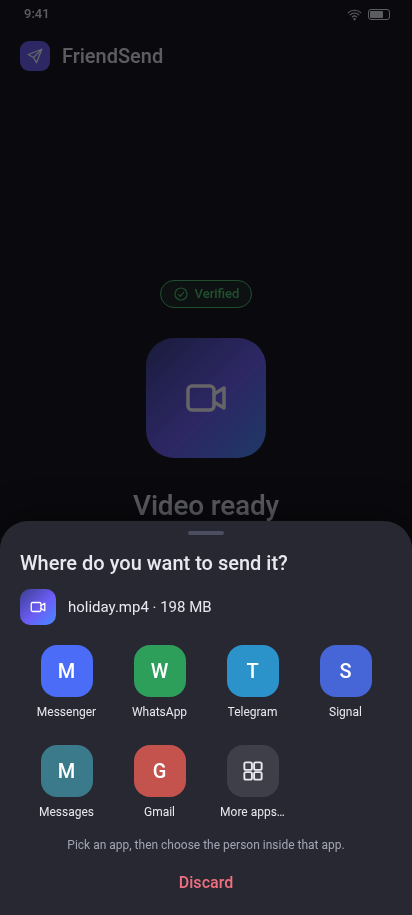
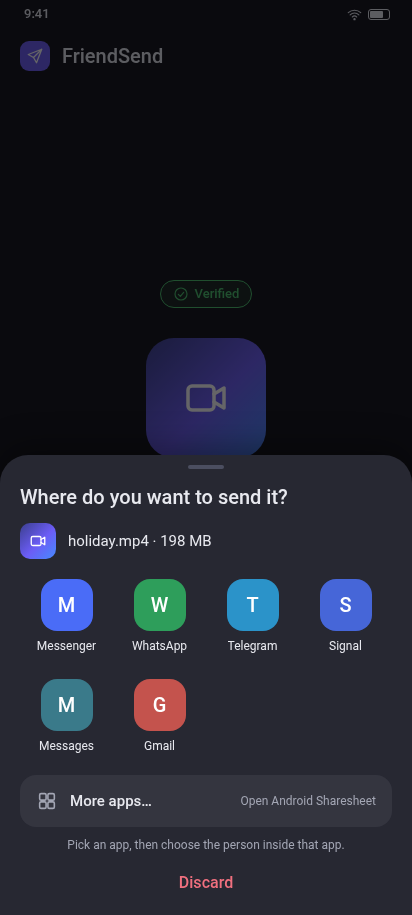
design: polish FriendSend pairing wording and separate More apps row
Two small review polish items, FriendSend only. Design only: no
application code changed and the desktop mockups are untouched.

- User-facing copy says "pairing code": the field now reads "Paste code
  from Rýchlik" instead of "Paste pairing payload". Payload stays an
  internal protocol term and never appears in the UI.
- "More apps..." is no longer drawn as a seventh app tile. It is its own
  row under the grid, labelled "Open Android Sharesheet", because it opens
  a different level (the system Sharesheet, including Direct Share people
  and conversations that FriendSend cannot reproduce). The picker must
  never replace the system Sharesheet path; recorded as a review
  criterion in UX_FLOWS.md and FINAL_GUI_UX_DESIGN.md.
- All FriendSend mockups re-rendered (including 360/412 variants), family
  overview and screen inventory regenerated.

A14-PHYSICAL-ANDROID-SHARE-SMOKE and A15-PHYSICAL-MDNS-DISCOVERY remain OPEN.

Changed region(s): [[0.0, 0.4896, 1.0, 0.918], [0.7573, 0.612, 0.9029, 0.7956], [0.5825, 0.8262, 0.9029, 0.918]]

diff --git a/design/prototype/friendsend.py b/design/prototype/friendsend.py
@@ -60,7 +60,10 @@ CSS = """
 .tile{display:flex;flex-direction:column;align-items:center;gap:7px;height:92px;padding-top:6px;text-align:center}
 .tile .ico{width:52px;height:52px;border-radius:16px;display:grid;place-items:center;font-size:20px;font-weight:700;color:#fff}
 .tile span{font-size:12px;line-height:16px;color:var(--text);max-width:80px;white-space:nowrap;overflow:hidden;text-overflow:ellipsis}
-.tile.more .ico{background:color-mix(in srgb,var(--text) 12%,transparent);color:var(--text)}
+.morerow{display:flex;align-items:center;gap:12px;min-height:52px;margin-top:10px;padding:0 16px;border-radius:16px;background:color-mix(in srgb,var(--text) 7%,transparent)}
+.morerow b{font-size:15px;font-weight:600}
+.morerow .cap{margin-left:auto}
+.morerow .ic{color:var(--text2)}
 .dlgm{position:absolute;left:24px;right:24px;top:50%;transform:translateY(-50%);background:var(--elev);border-radius:28px;padding:24px;box-shadow:0 12px 40px rgba(0,0,0,.5)}
 .dlgm .row{display:flex;justify-content:flex-end;gap:8px;margin-top:20px}
 .sys{background:#2b2b31;color:#e6e6ea;border-radius:28px 28px 0 0}
@@ -100,7 +103,7 @@ def hero(ic, cls, title, text, size=44, small=False):
 def unpaired(theme, w, h, filled=False, error=False):
     code = '{"protocol_version":1,"security_profile":"pinned-tls-signature-v1","pairing_session_id":"9c1e…","desktop_endpoint":{"host":"192.168.1.20","port":41873},"secret":"••••••••", …}'
     fld = (f'<div class="field filled">{code}</div>' if filled else
-           f'<div class="field {"err" if error else ""}">Paste pairing payload<div class="paste"><div class="btn secondary sm">{icon("copy", 18)}Paste</div></div></div>')
+           f'<div class="field {"err" if error else ""}">Paste code from Rýchlik<div class="paste"><div class="btn secondary sm">{icon("copy", 18)}Paste</div></div></div>')
     if error:
         fld = '<div class="field filled err">hello world</div>'
     msg = ""
@@ -189,15 +192,18 @@ def received(theme, w, h):
 def tiles(w, apps):
     cols = max(3, (w - 40) // 84)
     items = "".join(f'<div class="tile"><div class="ico" style="background:{c}">{ch}</div><span>{n}</span></div>' for n, ch, c in apps)
-    items += f'<div class="tile more"><div class="ico">{icon("grid", 26)}</div><span>More apps…</span></div>'
     return f'<div class="grid" style="grid-template-columns:repeat({cols},1fr)">{items}</div>'
+
+
+def more_row():
+    return (f'<div class="morerow">{icon("grid", 22)}<b>More apps…</b><span class="cap">Open Android Sharesheet</span></div>')
 
 
 def picker(theme, w, h, apps=None):
     apps = apps if apps is not None else APPS[:6]
     sheet = (f'<div class="sheet"><div class="grab"></div><div class="h2">Where do you want to send it?</div>'
              f'<div class="frow" style="margin-top:12px"><div class="fic thumb" style="width:36px;height:36px;border-radius:10px">{icon("video", 18)}</div><span class="p" style="color:var(--text)">holiday.mp4 · 198 MB</span></div>'
-             f'{tiles(w, apps)}<div class="cap" style="text-align:center">Pick an app, then choose the person inside that app.</div>'
+             f'{tiles(w, apps)}{more_row()}<div class="cap" style="text-align:center;margin-top:10px">Pick an app, then choose the person inside that app.</div>'
              f'<div style="margin-top:6px">{btn("Discard", "dtert")}</div></div>')
     return page(theme, w, h, received_body(), overlay=f'<div class="scrim"></div>{sheet}')
 
@@ -304,6 +310,6 @@ def components(theme, w=1000, h=820):
             f'<div style="height:14px"></div><div class="card" style="text-align:center"><span class="c-warning">{icon("warning", 32)}</span><div class="h2" style="margin-top:6px">Error state</div><div class="p">Title, one sentence, one action.</div></div>')
     body = (f'<div class="h2" style="margin-bottom:18px">FriendSend - component sheet ({theme})</div><div style="display:flex;gap:28px;flex-wrap:wrap">'
             f'{sect("Buttons (52 dp, pill)", btns)}{sect("Status chips (icon + text)", chips)}{sect("Progress + cards", prog + "<div style=height:18px></div>" + card)}'
-            f'{sect("Share target tiles (84 x 92 dp)", "<div style=width:340px>" + tile + "</div>")}</div>')
+            f'{sect("Share target tiles (84 x 92 dp) + system row", "<div style=width:340px>" + tile + more_row() + "</div>")}</div>')
     return (f'<!doctype html><html data-theme="{theme}"><head><meta charset="utf-8"><!-- NON-PRODUCTION DESIGN PROTOTYPE --><style>{base_css()}{CSS}</style></head>'
             f'<body class="mob"><div class="ph" style="padding:28px 32px;width:{w}px;height:{h}px;overflow:auto">{body}</div></body></html>')

diff --git a/design/prototype/gen_inventory.py b/design/prototype/gen_inventory.py
@@ -37,7 +37,7 @@ DESKTOP = [
 ]
 FRIEND = [
     ("F01", "First launch / unpaired", "No trusted desktop stored", "Pair", "Paste", "Inline error under the field", "n/a", "360/390/412", ["friendsend/01_pairing.png", "friendsend/01b_pairing_light.png"]),
-    ("F02", "Pairing payload entered / invalid", "Text in the field", "Pair", "Paste", "'This does not look like a pairing code.' with icon + text", "Empty: Pair disabled", "360/390/412", ["friendsend/01c_pairing_filled.png", "friendsend/01d_pairing_error.png"]),
+    ("F02", "Pairing code entered / invalid", "Text in the field", "Pair", "Paste", "'This does not look like a pairing code.' with icon + text", "Empty: Pair disabled", "360/390/412", ["friendsend/01c_pairing_filled.png", "friendsend/01d_pairing_error.png"]),
     ("F03", "Pairing in progress", "Pair tapped", "none (short, automatic)", "n/a", "Failure returns to F01 with a message", "n/a", "360/390/412", ["friendsend/01e_pairing_progress.png"]),
     ("F04", "Pairing success", "Pairing confirmed", "Done", "n/a", "n/a", "n/a", "360/390/412", ["friendsend/01f_pairing_success.png"]),
     ("F05", "Ready to receive", "Trusted desktop exists (every cold start)", "none (waiting)", "Trusted computer card, header desktop icon", "F16", "n/a", "360/390/412", ["friendsend/02_ready.png", "friendsend/02b_ready_light.png"]),
@@ -45,7 +45,7 @@ FRIEND = [
     ("F07", "Verifying", "All bytes received", "none", "n/a", "F15", "n/a", "360/390/412", ["friendsend/04_verifying.png"]),
     ("F08", "Preparing received file / ready transition", "Verification passed", "none", "n/a", "Failure to create the share URI shows the F14 pattern", "n/a", "360/390/412", ["friendsend/04b_preparing_share.png"]),
     ("F09", "Received", "Verified file exists", "Choose app", "Discard", "n/a", "n/a", "360/390/412", ["friendsend/05_received.png"]),
-    ("F10", "Choose destination app (dynamic picker)", "Opens automatically over F09; reopened by Choose app", "Tap an app tile", "More apps..., Discard", "F19", "F19", "3 columns at 360, 4 at 390/412; scrolls beyond 3 rows", ["friendsend/06_share_target_picker.png", "friendsend/07_share_target_picker_dark.png", "friendsend/07b_picker_few_apps.png", "friendsend/07c_picker_many_apps.png", "friendsend/sizes/picker_360x800.png", "friendsend/sizes/picker_412x915.png", "friendsend/sizes/picker_light_360x800.png", "friendsend/sizes/picker_light_412x915.png"]),
+    ("F10", "Choose destination app (dynamic picker)", "Opens automatically over F09; reopened by Choose app", "Tap an app tile", "More apps... (separate system row below the grid, never a tile), Discard", "F19", "F19", "3 columns at 360, 4 at 390/412; scrolls beyond 3 rows", ["friendsend/06_share_target_picker.png", "friendsend/07_share_target_picker_dark.png", "friendsend/07b_picker_few_apps.png", "friendsend/07c_picker_many_apps.png", "friendsend/sizes/picker_360x800.png", "friendsend/sizes/picker_412x915.png", "friendsend/sizes/picker_light_360x800.png", "friendsend/sizes/picker_light_412x915.png"]),
     ("F11", "System More apps fallback", "More apps...", "Choose a system share target", "System UI dismiss", "n/a", "n/a", "System-owned; schematic only", ["friendsend/07e_system_more_apps.png"]),
     ("F12", "Handoff accepted", "App returns from a targeted ACTION_SEND", "Done", "Send with another app", "n/a", "n/a", "360/390/412", ["friendsend/07f_handoff_accepted.png"]),
     ("F13", "Cancelled", "User or desktop cancelled", "Done", "n/a", "n/a", "n/a", "360/390/412", ["friendsend/08b_cancelled.png"]),

diff --git a/docs/FINAL_GUI_UX_DESIGN.md b/docs/FINAL_GUI_UX_DESIGN.md
@@ -83,7 +83,7 @@ Source of truth: `DownloadManagerService` (`hold`, `release_hold`, `pause_transf
 
 A state machine with almost no navigation: `PAIRING -> READY -> RECEIVING -> VERIFYING -> RECEIVED -> CHOOSE APP -> HANDOFF`.
 No tabs, drawer, inbox, history or settings tree. The only secondary screen is "Trusted computer" (header icon), which
-holds Forget. Setup (F01-F04) is visually distinct from everyday use (F05+): different hierarchy, no payload controls once paired.
+holds Forget. Setup (F01-F04) is visually distinct from everyday use (F05+): different hierarchy, no pairing-code controls once paired.
 
 ## 6. Design tokens (source: `design/final_design_tokens.json`)
 
@@ -161,6 +161,8 @@ Both themes share layout; only surface, text and border tokens change. Accent st
 colors for text (fill colors remain for bars/glyphs). Mobile cards use a soft shadow in light, a 1 px border in dark. Follow the system theme by default
 with a manual override on desktop (Settings > Appearance). Do not copy desktop QSS colors into Flutter; consume `final_design_tokens.json`.
 
+**Wording rule.** User-facing copy says "pairing code" (FriendSend field: "Paste code from Rýchlik"); "payload" is an internal protocol term.
+
 ## 12. Accessibility
 
 - Contrast: 50 audited pairs pass (text >= 4.5:1, graphics >= 3:1); `text.disabled` is exempt and never carries information. See `CONTRAST_AUDIT.md`.
@@ -211,7 +213,7 @@ white text on plain error red, mis-anchored annotation over the FriendSend heade
 1. Real fonts: mockups use Noto Sans/Roboto stand-ins; re-check widths with Inter.
 2. Share-target ordering (recent vs alphabetical vs pinned) and whether to cap the grid at 8 before "More apps...".
 3. Real app icons in the picker come from the system; the padding/mask style for non-adaptive icons is untested.
-4. Desktop name in the phone's "Trusted computer" card: the pairing payload currently carries no display name (record shows null), so the design says "Rýchlik / Your computer".
+4. Desktop name in the phone's "Trusted computer" card: the pairing data currently carries no display name (record shows null), so the design says "Rýchlik / Your computer".
 5. Whether bulk "Send..." should exist in the first implementation (single-file send may ship first).
 6. QR pairing is not designed: the current pairing is paste-based; a QR option would need its own design and protocol decision.
 7. Slovak strings and the longer-label behavior of toolbar/table columns.
@@ -223,7 +225,7 @@ white text on plain error red, mis-anchored annotation over the FriendSend heade
 2. **Endpoint refresh.** A17-E1 showed the phone's port changes on every app start. "Trusted - Online" and sending need discovery to refresh the stored endpoint (`with_endpoint`) before connecting.
 3. **Identity changed** maps to TLS pin / device-identity mismatch results; there is no persisted "identity changed" flag today, so the state is derived from the last failed check. "Resolve..." opens the forget flow only.
 4. **FriendSend states.** Current `AppState` has unpaired/paired/receiving/received/error. New: verifying, preparing-to-share, choosing, handed-off, cancelled, no-network. Discard and Share buttons are currently placeholders (`onPressed: () {}`) and must be wired.
-5. **Share-target picker** needs `ShareTargetResolver`, package-visibility `<queries>` for `ACTION_SEND` by MIME type, targeted-package intents, and the permanent More apps... fallback. Today `autoShare` opens the system chooser immediately; the design replaces that with the F10 picker. Independent of Device Mode transport/security.
+5. **Share-target picker** needs `ShareTargetResolver`, package-visibility `<queries>` for `ACTION_SEND` by MIME type, targeted-package intents, and the permanent More apps... fallback. Today `autoShare` opens the system chooser immediately; the design replaces that with the F10 picker. `More apps...` is a separate row under the grid ("Open Android Sharesheet"), not a seventh tile, and the picker must never replace the system Sharesheet path (Direct Share people/conversations exist only there). Independent of Device Mode transport/security.
 6. **Preparing progress:** `DeviceHandoffSnapshot` exposes only a fraction. "Converted 1:12 of 2:48" needs processed time/duration (available inside the A16 preparation progress but not on the snapshot) or must be dropped.
 7. **Share by Link extras** (Open in browser, QR, Share via phone) are design placeholders.
 8. **Assets to replace:** the 24 px raster icons in `assets/*.zip` and the v3 QSS pixel/`pt` mix; use tokens and the single stroke icon set.

diff --git a/design/SCREEN_INVENTORY.md b/design/SCREEN_INVENTORY.md
@@ -43,7 +43,7 @@ Additional mockups not tied to one ID: `mockups/00_family_overview.png` (both ap
 | ID | Purpose | Entry condition | Primary action | Secondary actions | Error state | Empty state | Responsive variants | Mockup file(s) |
 |---|---|---|---|---|---|---|---|---|
 | F01 | First launch / unpaired | No trusted desktop stored | Pair | Paste | Inline error under the field | n/a | 360/390/412 | `friendsend/01_pairing.png`<br>`friendsend/01b_pairing_light.png` |
-| F02 | Pairing payload entered / invalid | Text in the field | Pair | Paste | 'This does not look like a pairing code.' with icon + text | Empty: Pair disabled | 360/390/412 | `friendsend/01c_pairing_filled.png`<br>`friendsend/01d_pairing_error.png` |
+| F02 | Pairing code entered / invalid | Text in the field | Pair | Paste | 'This does not look like a pairing code.' with icon + text | Empty: Pair disabled | 360/390/412 | `friendsend/01c_pairing_filled.png`<br>`friendsend/01d_pairing_error.png` |
 | F03 | Pairing in progress | Pair tapped | none (short, automatic) | n/a | Failure returns to F01 with a message | n/a | 360/390/412 | `friendsend/01e_pairing_progress.png` |
 | F04 | Pairing success | Pairing confirmed | Done | n/a | n/a | n/a | 360/390/412 | `friendsend/01f_pairing_success.png` |
 | F05 | Ready to receive | Trusted desktop exists (every cold start) | none (waiting) | Trusted computer card, header desktop icon | F16 | n/a | 360/390/412 | `friendsend/02_ready.png`<br>`friendsend/02b_ready_light.png` |
@@ -51,7 +51,7 @@ Additional mockups not tied to one ID: `mockups/00_family_overview.png` (both ap
 | F07 | Verifying | All bytes received | none | n/a | F15 | n/a | 360/390/412 | `friendsend/04_verifying.png` |
 | F08 | Preparing received file / ready transition | Verification passed | none | n/a | Failure to create the share URI shows the F14 pattern | n/a | 360/390/412 | `friendsend/04b_preparing_share.png` |
 | F09 | Received | Verified file exists | Choose app | Discard | n/a | n/a | 360/390/412 | `friendsend/05_received.png` |
-| F10 | Choose destination app (dynamic picker) | Opens automatically over F09; reopened by Choose app | Tap an app tile | More apps..., Discard | F19 | F19 | 3 columns at 360, 4 at 390/412; scrolls beyond 3 rows | `friendsend/06_share_target_picker.png`<br>`friendsend/07_share_target_picker_dark.png`<br>`friendsend/07b_picker_few_apps.png`<br>`friendsend/07c_picker_many_apps.png`<br>`friendsend/sizes/picker_360x800.png`<br>`friendsend/sizes/picker_412x915.png`<br>`friendsend/sizes/picker_light_360x800.png`<br>`friendsend/sizes/picker_light_412x915.png` |
+| F10 | Choose destination app (dynamic picker) | Opens automatically over F09; reopened by Choose app | Tap an app tile | More apps... (separate system row below the grid, never a tile), Discard | F19 | F19 | 3 columns at 360, 4 at 390/412; scrolls beyond 3 rows | `friendsend/06_share_target_picker.png`<br>`friendsend/07_share_target_picker_dark.png`<br>`friendsend/07b_picker_few_apps.png`<br>`friendsend/07c_picker_many_apps.png`<br>`friendsend/sizes/picker_360x800.png`<br>`friendsend/sizes/picker_412x915.png`<br>`friendsend/sizes/picker_light_360x800.png`<br>`friendsend/sizes/picker_light_412x915.png` |
 | F11 | System More apps fallback | More apps... | Choose a system share target | System UI dismiss | n/a | n/a | System-owned; schematic only | `friendsend/07e_system_more_apps.png` |
 | F12 | Handoff accepted | App returns from a targeted ACTION_SEND | Done | Send with another app | n/a | n/a | 360/390/412 | `friendsend/07f_handoff_accepted.png` |
 | F13 | Cancelled | User or desktop cancelled | Done | n/a | n/a | n/a | 360/390/412 | `friendsend/08b_cancelled.png` |

diff --git a/design/UX_FLOWS.md b/design/UX_FLOWS.md
@@ -88,7 +88,7 @@ and Cancel. No codec, CRF, container or FFmpeg wording ever appears in the defau
 F09 Received (auto-opens) F10 "Where do you want to send it?"
    tiles = installed apps that resolve ACTION_SEND for the received MIME type  (dynamic, from Android at runtime)
    tap tile  -> targeted ACTION_SEND with the FileProvider content:// URI -> the target app shows ITS OWN recipient chooser
-   More apps... -> normal Android Sharesheet (F11)
+   More apps... (its own row under the grid, labelled "Open Android Sharesheet", never a tile) -> normal Android Sharesheet (F11)
    zero tiles -> F19 "No compatible apps found"
    return from target app -> F12 "Handed off to <app>" (HANDOFF_ACCEPTED only; delivery is unknowable)
    Done / Discard -> temporary file removed
@@ -141,3 +141,10 @@ Second group for every queued item: Priority > High / Normal / Low, Move up, Mov
 Move up/down are disabled with the reason. Third group: Cancel (also reachable from hover actions and the bulk bar).
 Bulk bar: Pause, Resume, Hold, Release, Priority, Cancel | Send... (completed only), Delete. No reorder in bulk.
 The Queues view (D26) is the place for explicit order: three priority bands, position numbers, drag handle and arrows.
+
+## 12. Wording and picker rules (second review)
+
+- User-facing text says **pairing code** ("Paste code from Rýchlik"). "Payload" is an internal protocol term and never appears in the UI.
+- The FriendSend picker is a hybrid: quick app targets plus a separate system-level row. `More apps...` is visually separate from installed apps because it opens a
+  different level, the Android Sharesheet, which can show Direct Share people and conversations that FriendSend cannot and must not reproduce.
+- Review criterion: the custom picker must never replace or hide the system Sharesheet path.
